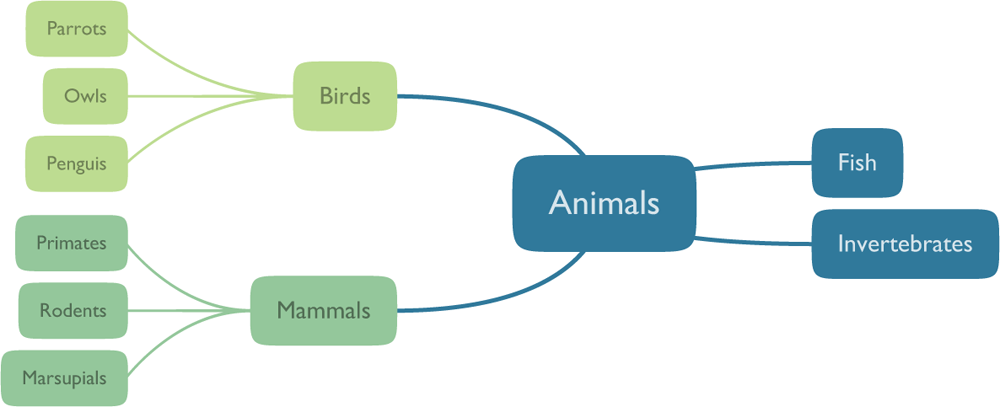
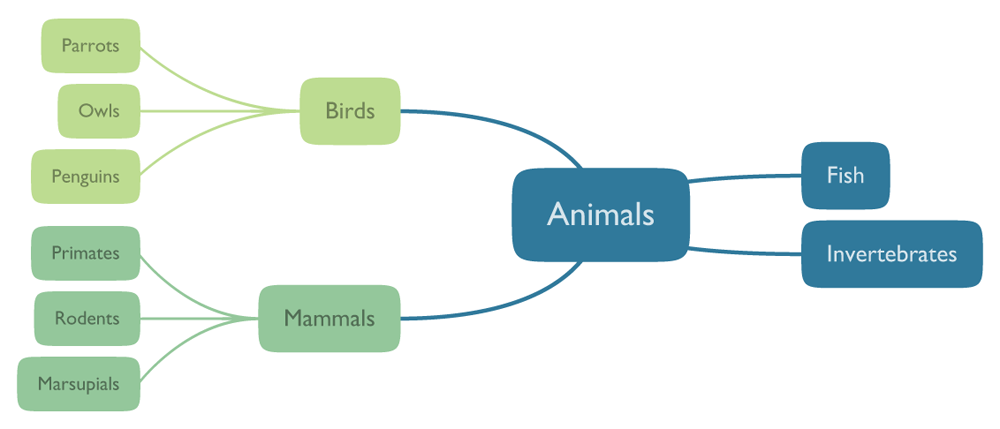
Documentation improvements

Changed region(s): [[0.0, 0.0, 1.0, 1.0], [0.031, 0.4717, 0.124, 0.5307]]

diff --git a/doc/_templates/quickstart.html b/doc/_templates/quickstart.html
@@ -10,51 +10,50 @@
   individual tree nodes. They do not contain any information on <em>how</em> the
   tree should be visually rendered.</p>
 
-  <p>The visual appearance of the tree is described in so-called
+  <p>The visual appearance of the tree is described in 
   <em>configuration files</em>. Several <a href="../examples/">built-in
     configurations</a> are included
-  with your twyg installation that you can use out-of-the-box. That way, you
-  don't need to learn the intricacies of the custom <a
+  that can be used out-of-the-box. That way, one
+  doesn't need to learn the intricacies of the custom <a
     href="../docs/config/">configuration language</a> to
   get pretty looking results quickly.</p>
 
   <p>The benefit of separating the visual style from the tree data itself is
-  that this way you can easily render the same tree in different visual styles
-  by just using a different configuration file. Moreover, configurations can
-  defined in a generative manner, which means that almost all <a
-    href="../docs/reference/">visual aspects</a>
-  of the tree can be defined as expressions that depend on the tree's
-  properties (e.g. the color or shape of a node can depend on the hierarchical
-  position it occupies in the tree).  This allows for crafting very flexible
-  configurations that can be applied to trees of arbitrary size and
-  complexity.</p>
+  that this way one can easily render the same tree in different visual styles
+    by just using a different configuration file. Moreover, configurations can
+      defined in a generative manner, which means that almost all <a
+        href="../docs/reference/">visual properties</a> of the output can be
+      controlled by expressions that depend on the characteristics of the tree
+      (e.g. the color or shape of a node can be a function of its
+      hierarchical position in the tree). This allows for crafting very
+      flexible configurations that can be applied to trees of arbitrary size
+      and complexity.</p>
 
-  <p>Below is a sample JSON file and the corresponding graph that was
+  <p>Below is a sample JSON file and the corresponding output that was
   generated using the default configuration:</p>
 
   <div class="example">
     <pre>
-  {
-      "Animals": [
-          {"Birds": [
-              "Parrots",
-              "Owls",
-              "Penguis"
-          ]},
-          {"Mammals": [
-              {"Primates":
-                  "Harry the Monkey"
-              },
-              "Rodents"
-          ]},
-          "Fish",
-          "Invertebrates"
-  }</pre>
+{
+    "Animals": [
+        {"Birds": [
+            "Parrots",
+            "Owls",
+            "Penguins"
+        ]},
+        {"Mammals": [
+            "Primates",
+            "Rodents",
+            "Marsupials"
+        ]},
+        "Fish",
+        "Invertebrates"
+}</pre>
 
     <img src="{{ pathto('_static/quickstart-animals.png', 1) }}" alt="Animals" />
   </div>
 
-  <p>To generate this graph as a PDF file, create a text file
+  <p>To generate this tree as a PDF file, create a text file
   <code>example.json</code> containing the JSON data above and then execute
   this command:</p>
 

diff --git a/doc/_themes/twyg/static/main.css b/doc/_themes/twyg/static/main.css
@@ -84,21 +84,16 @@ dd {
 
 tt, code {
   font-family: Menlo, Consolas, Andale Mono, DejaVu Sans Mono, Droid Sans Mono, Courier, monospace;
-  font-size: 14px;
+  font-size: 15px;
   font-weight: bold;
   color: #585858; }
-  tt.descname, code.descname {
-    font-size: 16px !important; }
 
-p tt {
+.descname {
   font-size: 17px !important; }
-
-p code {
-  font-size: 15px;
-  padding: 0 .4em; }
 
 pre {
   font-family: Menlo, Consolas, Andale Mono, DejaVu Sans Mono, Droid Sans Mono, Courier, monospace;
+  font-size: 15px;
   font-size: 14px;
   padding: 10px;
   background: #f4ffda; }
@@ -250,13 +245,13 @@ blockquote {
       font-size: 18px; }
     .content .property > dt {
       float: left;
-      width: 170px;
+      width: 185px;
       margin: 0;
-      font-size: 18px;
+      font-size: 15px;
       font-weight: 600;
       text-align: right; }
     .content .property > dd {
-      margin: 0 0 0 180px; }
+      margin: 0 0 0 200px; }
     .content .property .propparams {
       margin: .5em 0 .5em 0px;
       font-size: 17px;
@@ -287,7 +282,7 @@ blockquote {
         color: #b44; }
   .content .function tt {
     font-family: Menlo, Consolas, Andale Mono, DejaVu Sans Mono, Droid Sans Mono, Courier, monospace;
-    font-size: 14px; }
+    font-size: 15px; }
   .content .function dl {
     margin: 0; }
   .content .function dd p {
@@ -432,13 +427,13 @@ blockquote {
   margin-top: 2em; }
   .quickstart .example pre {
     float: left;
-    width: 34%;
+    width: 28%;
     margin: 0;
     margin-bottom: 3em; }
   .quickstart .example img {
     float: left;
-    width: 60%;
-    margin: 40px 0 0 33px; }
+    width: 65%;
+    margin: 20px 0 0 40px; }
 
 .docs .body {
   margin-left: 210px; }

diff --git a/doc/_themes/twyg/static/main.scss b/doc/_themes/twyg/static/main.scss
@@ -16,7 +16,7 @@ $submenu-pad: 40px;
 
 @mixin monofont {
   font-family: Menlo, Consolas, Andale Mono, DejaVu Sans Mono, Droid Sans Mono, Courier, monospace;
-  font-size: 14px;
+  font-size: 15px;
 }
 
 html {
@@ -126,20 +126,14 @@ tt, code {
   font-weight: bold;
   color: lighten($basecolor, 8);
 
-  &.descname {
-    font-size: 16px !important;
-  }
 }
-p tt {
+.descname {
   font-size: 17px !important;
-}
-p code {
-  font-size: 15px;
-  padding: 0 .4em;
 }
 
 pre {
   @include monofont;
+  font-size: 14px;
   padding: 10px;
   background: #f4ffda;
 }
@@ -340,14 +334,14 @@ blockquote {
     }
     & > dt {
       float: left;
-      width: 170px;
+      width: 185px;
       margin: 0;
-      font-size: 18px;
+      font-size: 15px;
       font-weight: 600;
       text-align: right;
     }
     & > dd {
-      margin: 0 0 0 180px;
+      margin: 0 0 0 200px;
     }
     .propparams {
       margin: .5em 0 .5em 0px;
@@ -600,21 +594,21 @@ blockquote {
     clear: both;
   }
   .img {
-    width: 80%;
+    width: 90%;
   }
   .example {
     margin-top: 2em;
 
     pre {
       float: left;
-      width: 34%;
+      width: 28%;
       margin: 0;
       margin-bottom: 3em;
     }
     img {
       float: left;
-      width: 60%;
-      margin: 40px 0 0 33px;
+      width: 65%;
+      margin: 20px 0 0 40px;
     }
   }
 }

diff --git a/doc/docs/config.rst b/doc/docs/config.rst
@@ -7,7 +7,7 @@ used to draw the text inside the nodes and more.
 
 Configuration files are plain text files with a ``.twg`` extension.  They do
 not contain any tree data, but only instructions on `how` to draw the trees.
-These instructions can then be applied to arbitrary tree data files.  
+These instructions can then be applied to arbitrary tree data files.
 
 Configurations have the following structure:
 
@@ -29,23 +29,23 @@ The following is an example of a complete configuration file::
 
     [layout]                                     -- layout section start marker
         style                 layout             -- layout style
-        rootPadX              70                 -- property definition; constant
-                                                
+        rootPadX              70                 -- property definition; constan
+
     [node]                                       -- node section start marker
         style                 rect               -- node style
         textPadY              fontSize * 0.7     -- property definition; expression
-                                                
+
     [connection]                                 -- connection section start marker
       {default}                                  -- 'default' level start marker
         style                 curve              -- connection style
-        nodeLineWidthStart    1.5               
-        nodeLineWidthEnd      1.5               
-                                                
+        nodeLineWidthStart    1.5
+        nodeLineWidthEnd      1.5
+
       {root}                                     -- 'root' level start marker
         @copy                 default            -- copy directive
         levelDepthMax         0                  -- level selector
         nodeLineWidthEnd      3.5                -- override nodeLineWidthEnd
-                                                
+
     [color]                                      -- color section start marker
         @include              "mycolor.twg"      -- include directive
 
@@ -83,12 +83,11 @@ example::
     [layout]                                     -- [layout] starts
         style                 layout             --   belongs to the layout section
         rootPadX              70                 --   belongs to the layout section
-                                                
+
     [node]                                       -- [layout] ends, [node] starts
         style                 rect               --   belongs to the node section
         textPadY              fontSize * 0.7     --   belongs to the node section
                                                  -- end of file, [node] ends
-
 
 
 .. _levels:
@@ -110,7 +109,7 @@ differently. For example, one might want to distribute the nodes into three
 groups, root node, leaf nodes and remaining nodes, and apply three distinct
 visual styles to these groups. Or the grouping could be based on the depth a
 particular node can be found at in the tree, so all nodes at depth 1 would be
-drawn in a certain style, nodes at depth 2 in another style, and so forth. 
+drawn in a certain style, nodes at depth 2 in another style, and so forth.
 
 By using level definitions within a section definition, it is possible to
 refine the visual appearance of the tree by applying properties to certain
@@ -203,7 +202,7 @@ The following level selectors can be specified in level definitions:
     Maximum depth of the node in the tree to be selected.
 
 
-.. property:: levelNumChildrenMin 
+.. property:: levelNumChildrenMin
 
    .. propparams:: Number 0
        :values: >0
@@ -211,7 +210,7 @@ The following level selectors can be specified in level definitions:
    Minimum number of child nodes the node must have to be selected.
 
 
-.. property:: levelNumChildrenMax 
+.. property:: levelNumChildrenMax
 
    .. propparams:: Number 999999999
        :values: >0
@@ -260,7 +259,7 @@ Currently, the following two directives are supported:
     Copy all property definitions from another level into the current one
     within the same section. The ``<levelname>`` parameter has to be the name
     of the level without the curly brackets.
-    
+
     The directive is only allowed to appear in level definitions. The level
     *<levelname>* does not have to be defined in the same file where the
     *@copy* directive appears in; it can also come from another configuration
@@ -300,7 +299,7 @@ Currently, the following two directives are supported:
     Include the contents of another configuration file into the current
     configuration. The ``<configname>`` argument is the full path to the
     configuration file to be included as a double-quoted string.
-    
+
     The most natural way to think about this is that when the parser encounters
     a line containing an *@include* directive, it simply replaces that line
     with the contents of the included configuration file and continues the
@@ -341,7 +340,7 @@ Property values can be either simple literal values::
 
         rootPadX        70
         fontName        "Gill Sans"
-        nodeColor       #f80 
+        nodeColor       #f80
 
 or expressions of arbitrary complexity::
 
@@ -381,7 +380,7 @@ Every property value has a type associated with it. These are the following:
       name      "double-quotes (\"\") within a string"
 
 *Boolean*
-    Used for turning a specific feature on or off. Valid values are: 
+    Used for turning a specific feature on or off. Valid values are:
 
     * ``on``, ``yes``, ``true``, numbers greater than or equal to *1*
     * ``off``, ``no``, ``false``, numbers less than or equal to *0*
@@ -569,7 +568,7 @@ the interval *0.0--1.0*.
 
 
 .. function:: blend(destcolor, factor)
-     
+
     Blend the color (source color) with *destcolor* by a given factor. A
     *factor* of *1.0* will result in the destination color and *0.0* in the
     source color. ::
@@ -579,7 +578,7 @@ the interval *0.0--1.0*.
         baseColor.blend(bgColor, 0.2)
 
 .. tip:: The brightness of a color can be changed in two ways:
-    
+
     * using the :py:func:`darken` and :py:func:`lighten` functions
     * blending the color with black or white
 

diff --git a/doc/docs/nodes.rst b/doc/docs/nodes.rst
@@ -21,7 +21,7 @@ Text properties
 
     Name of the font to draw the node text with. Normal font weights are
     always used.
-    
+
     .. note:: The font name is usually not portable across different
         operating system and graphics backend combinations and it might need to
         be adjusted for each platform. Different graphics backends and
@@ -29,7 +29,7 @@ Text properties
         font name "Helvetica" might result in a different font being picked up
         by NodeBox on Mac OS X than the by the command line application on
         Windows using the Cairo backend.
-        
+
 
 .. property:: lineHeight
 
